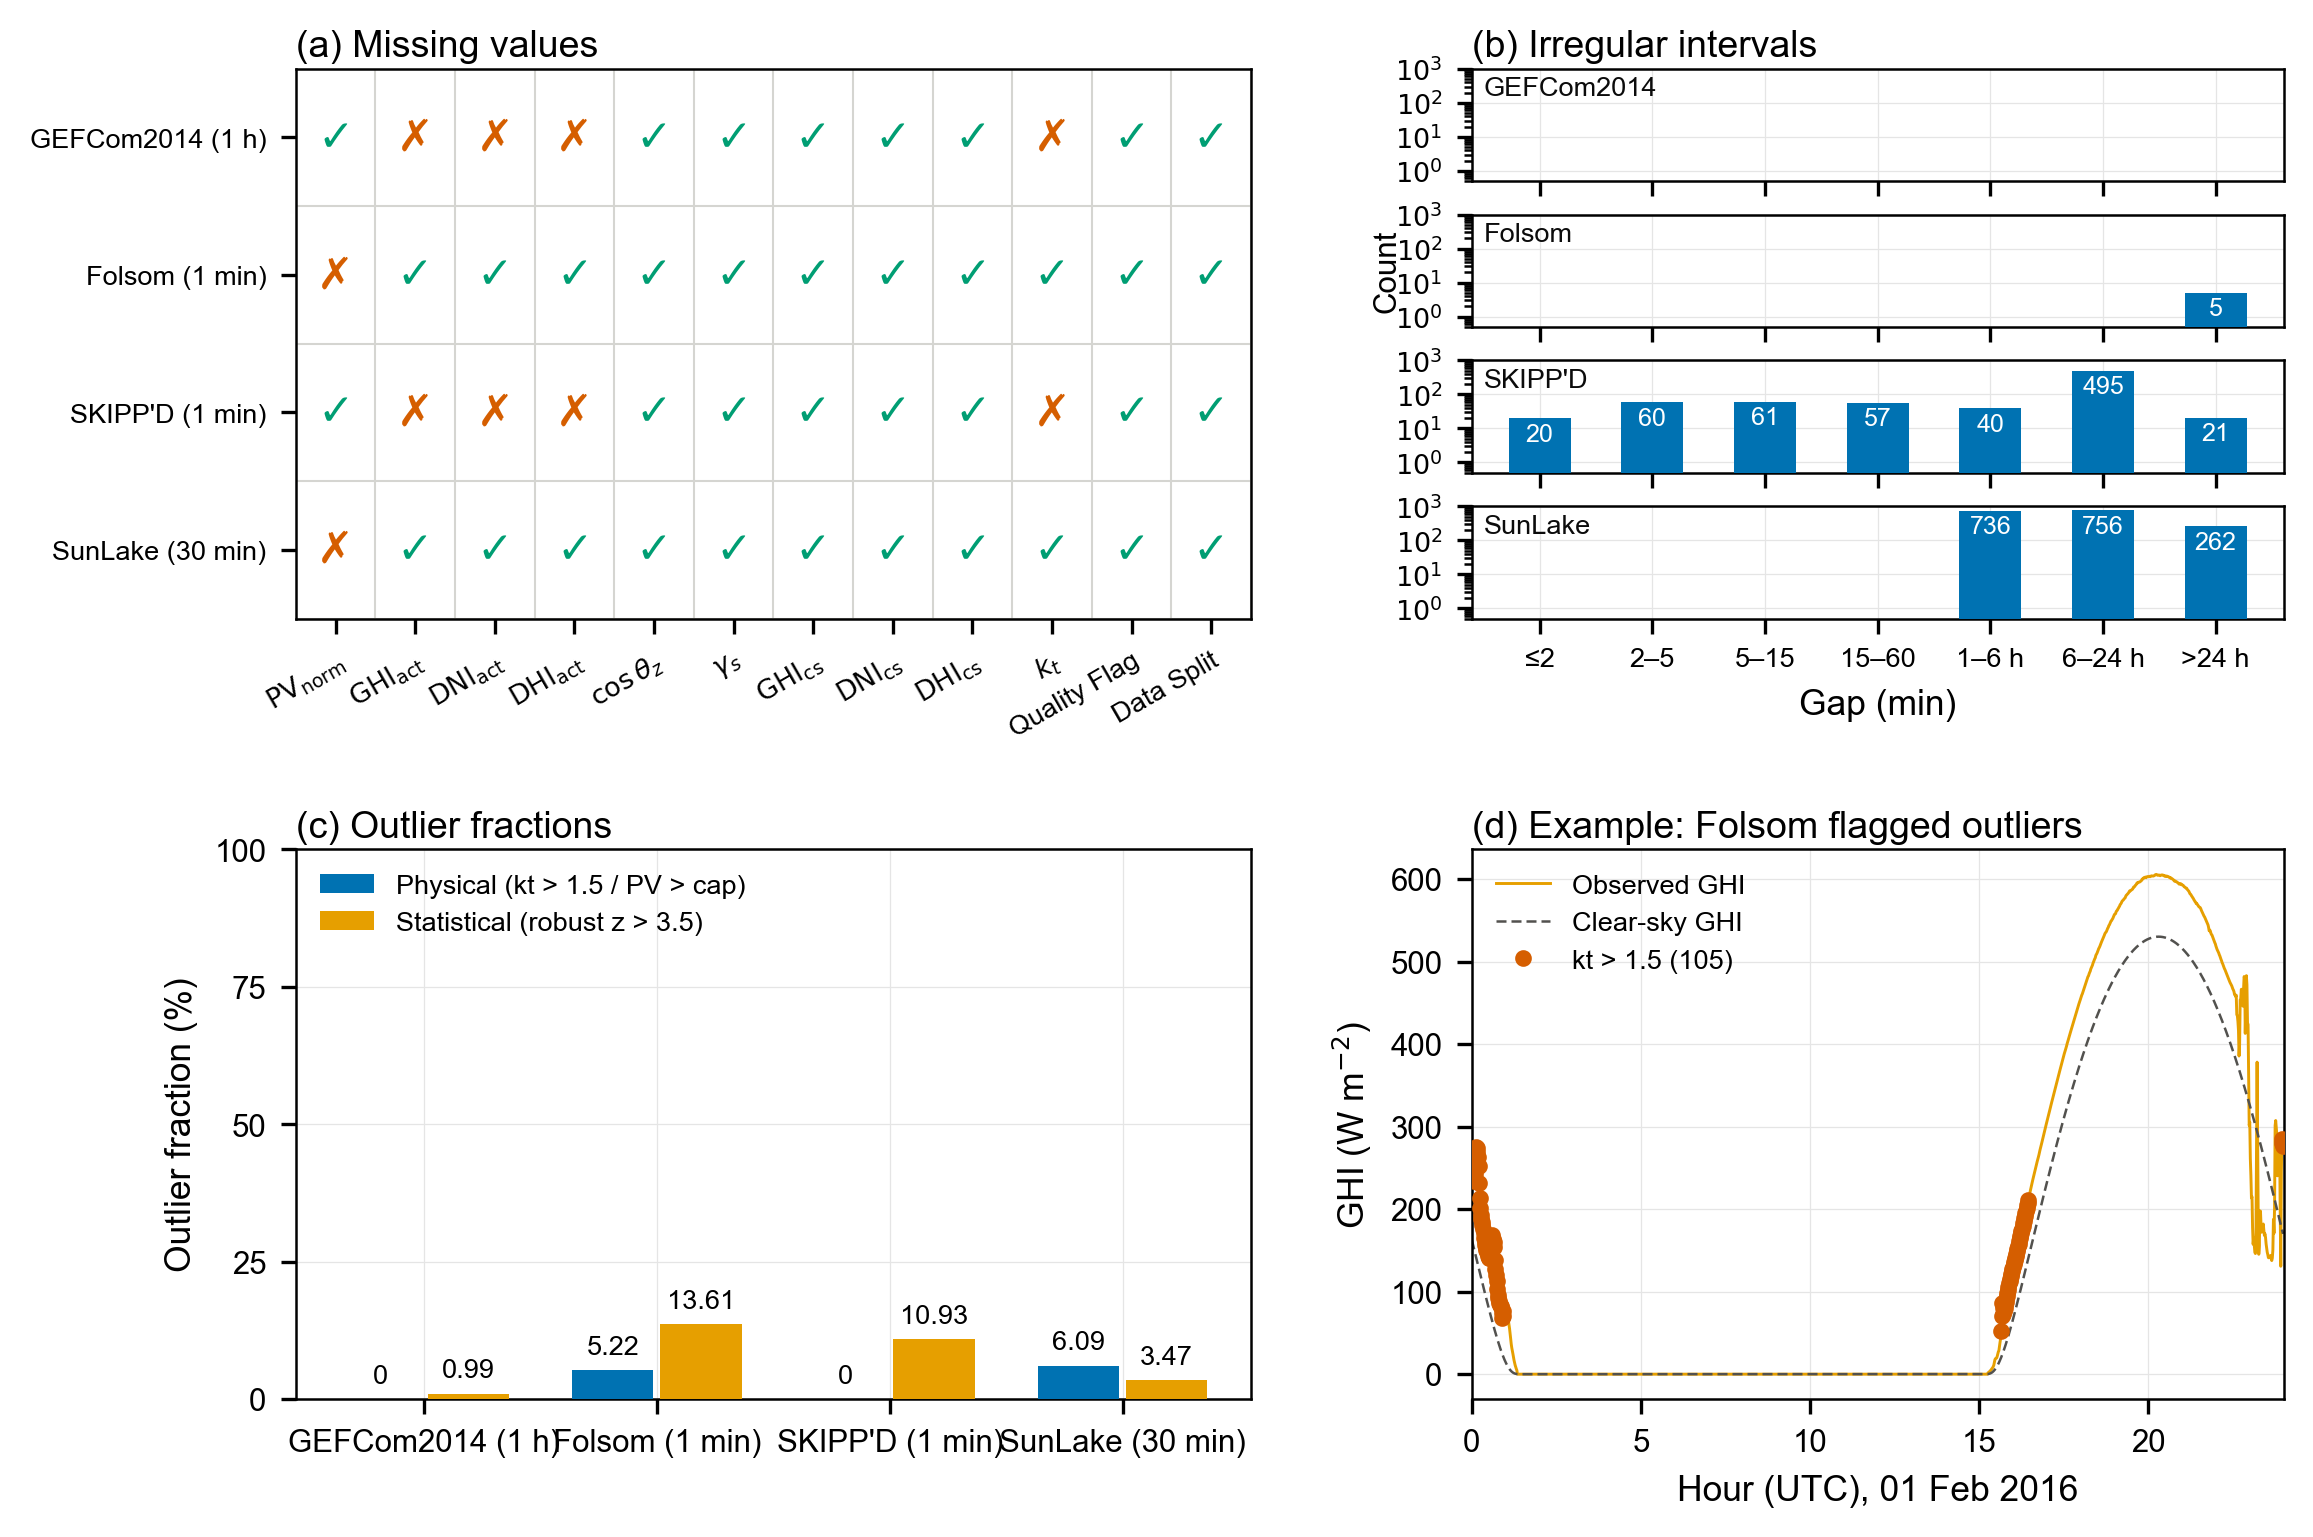
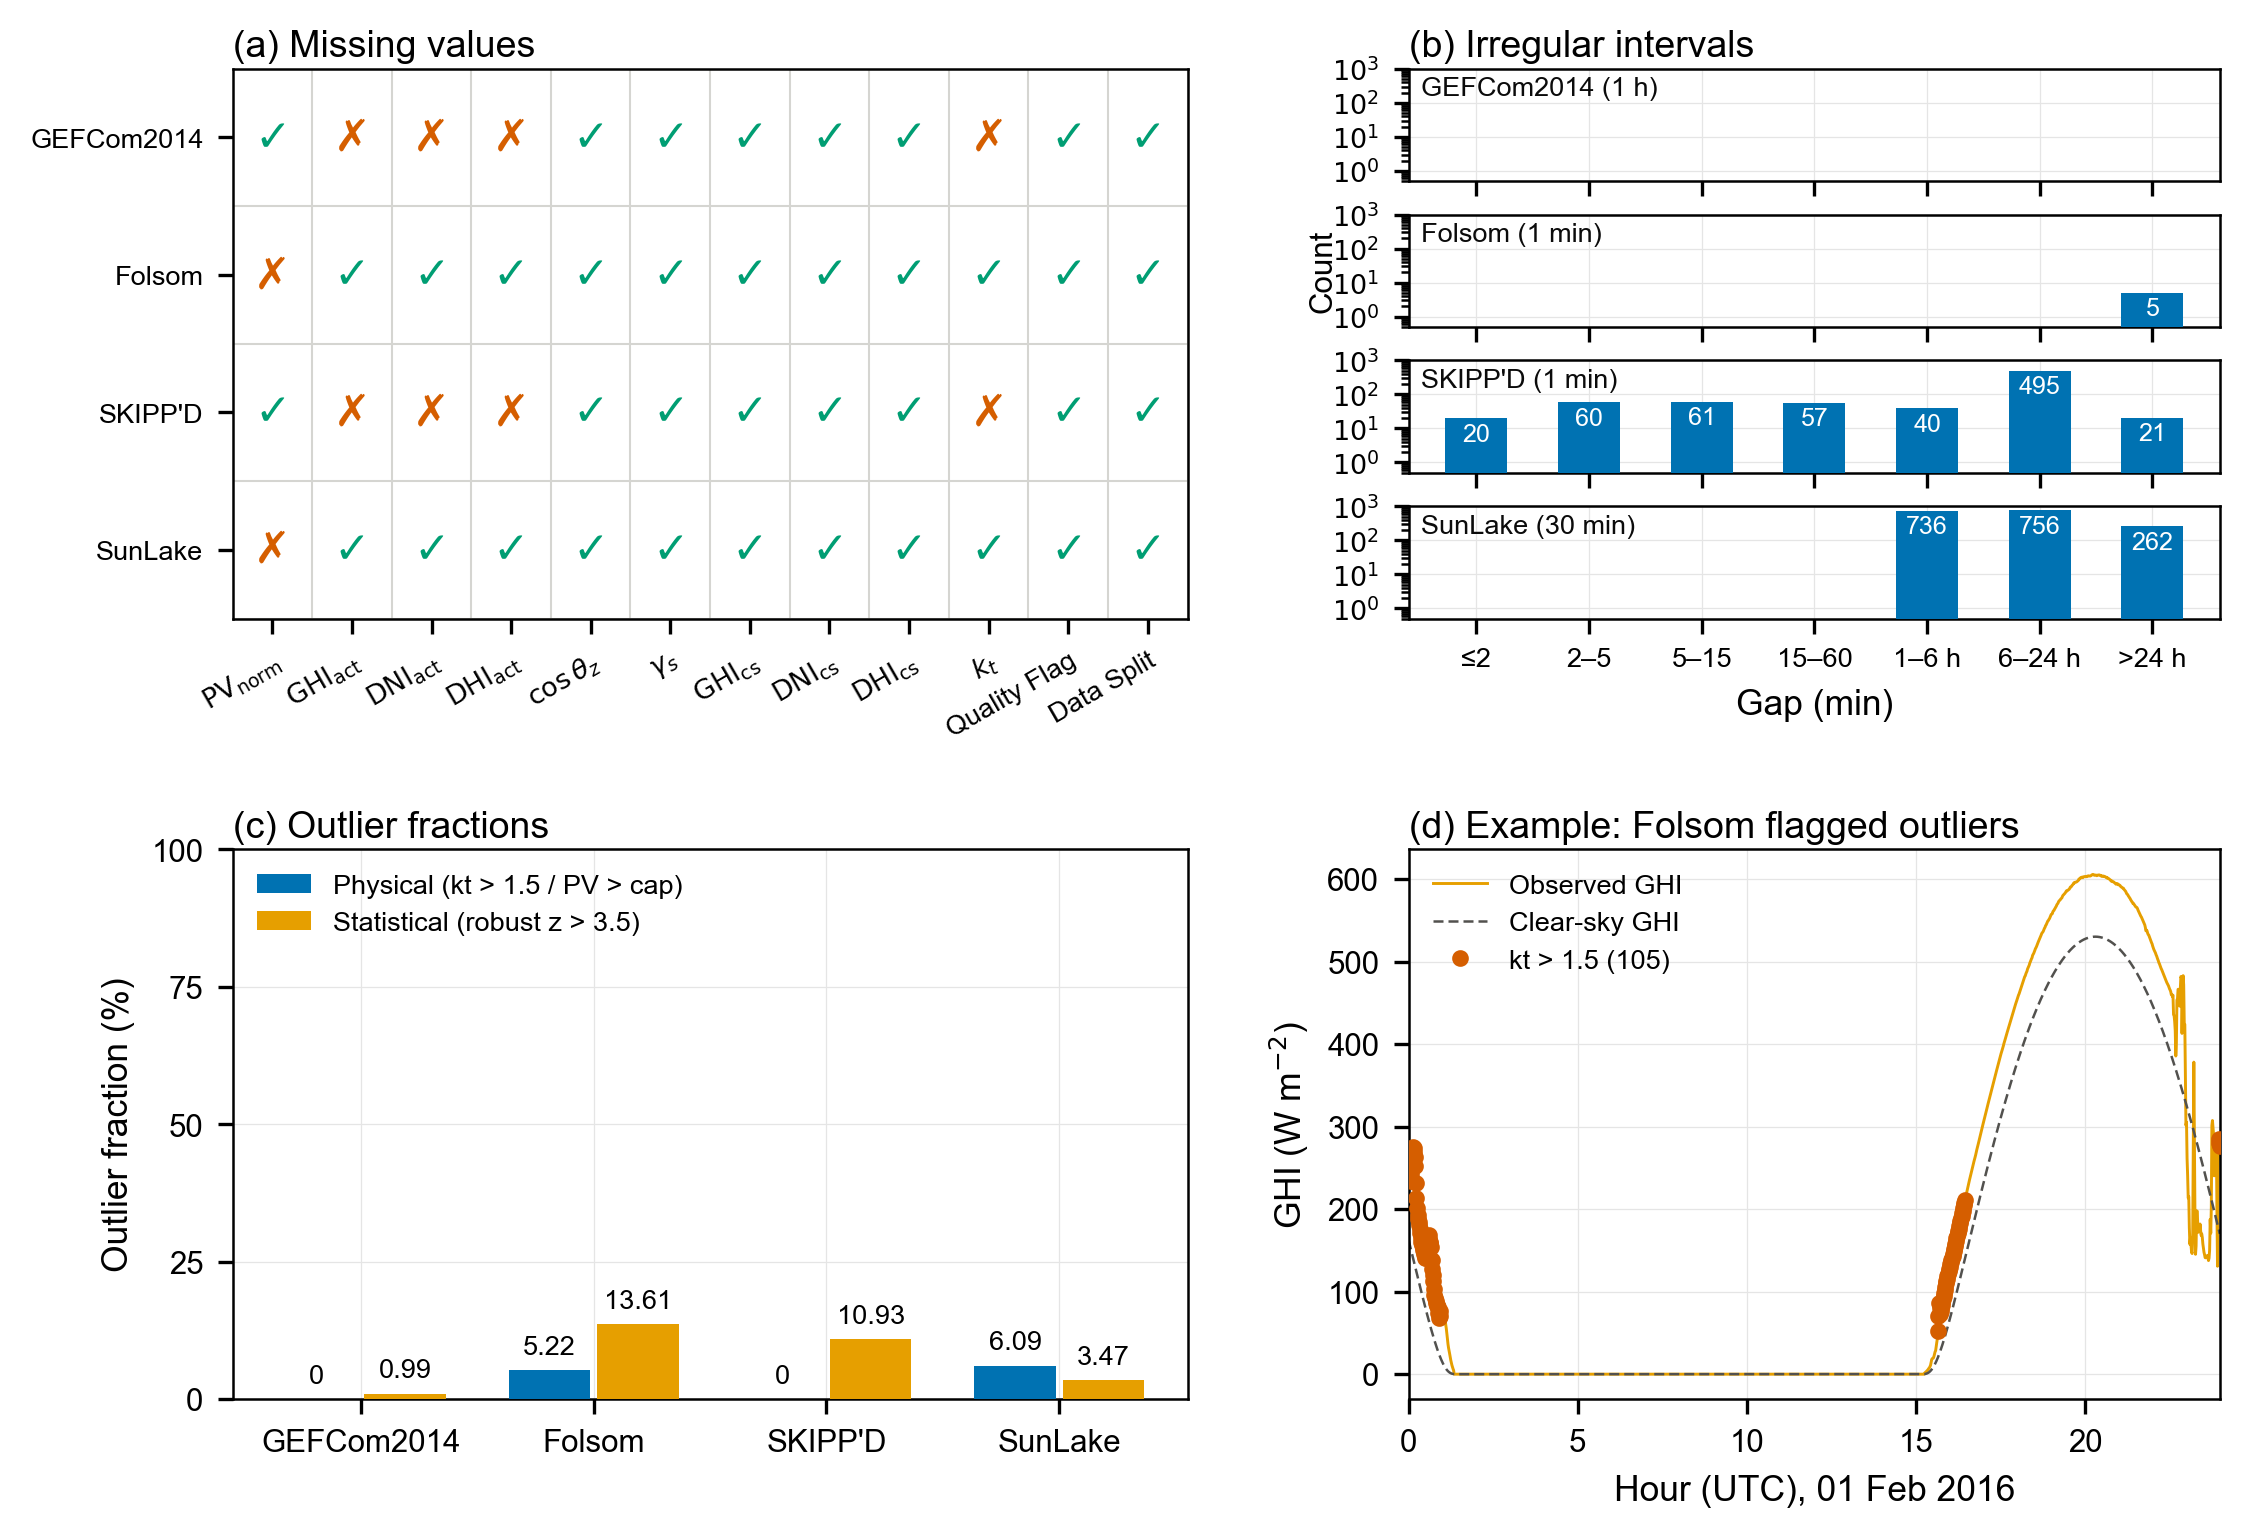
viz(essd): fig04 cadence labels corrected to (b) only — histograms carry native cadence (GEFCom2014 (1 h) ...); matrix rows and outlier-bar names bare

diff --git a/scripts/plot_fig04_defects_outliers.py b/scripts/plot_fig04_defects_outliers.py
@@ -104,7 +104,7 @@ def draw_matrix(ax_m, cols, miss):
                     rotation=30, ha="right", fontsize=TEXT_SIZE_PT - 2,
                     rotation_mode="anchor")
     ax_m.set_yticks(range(len(DS_ORDER)),
-                    [DS_LABELS[d] for d in DS_ORDER],
+                    [DS_LABELS[d].split(" (")[0] for d in DS_ORDER],
                     fontsize=TEXT_SIZE_PT - 2)
     ax_m.grid(False)
     ax_m.set_xlim(-0.5, len(cols) - 0.5)
@@ -138,8 +138,7 @@ def draw_minis(sub, diffs):
         ax_h.set_yticks(ticks,
                         [f"$10^{{{e}}}$" for e in range(0, g_top + 1)],
                         fontsize=TEXT_SIZE_PT - 2)
-        ax_h.text(0.015, 0.93, DS_LABELS[ds].split(" (")[0],
-                  transform=ax_h.transAxes,
+        ax_h.text(0.015, 0.93, DS_LABELS[ds], transform=ax_h.transAxes,
                   fontsize=TEXT_SIZE_PT - 2, ha="left", va="top",
                   color="#0B0B0B")
         if k == 1:
@@ -172,7 +171,8 @@ def draw_outlier_bars(ax, stats):
                 ha="center", va="bottom", fontsize=6.5)
     ax.set_ylim(0, 100)
     ax.set_yticks([0, 25, 50, 75, 100])
-    ax.set_xticks(x, [DS_LABELS[d] for d in DS_ORDER], fontsize=7.5)
+    ax.set_xticks(x, [DS_LABELS[d].split(" (")[0] for d in DS_ORDER],
+                  fontsize=7.5)
     ax.set_ylabel("Outlier fraction (%)")
     ax.legend(frameon=False, fontsize=6.5, loc="upper left")
     ax.set_title("(c) Outlier fractions", fontsize=9, loc="left", pad=3)
